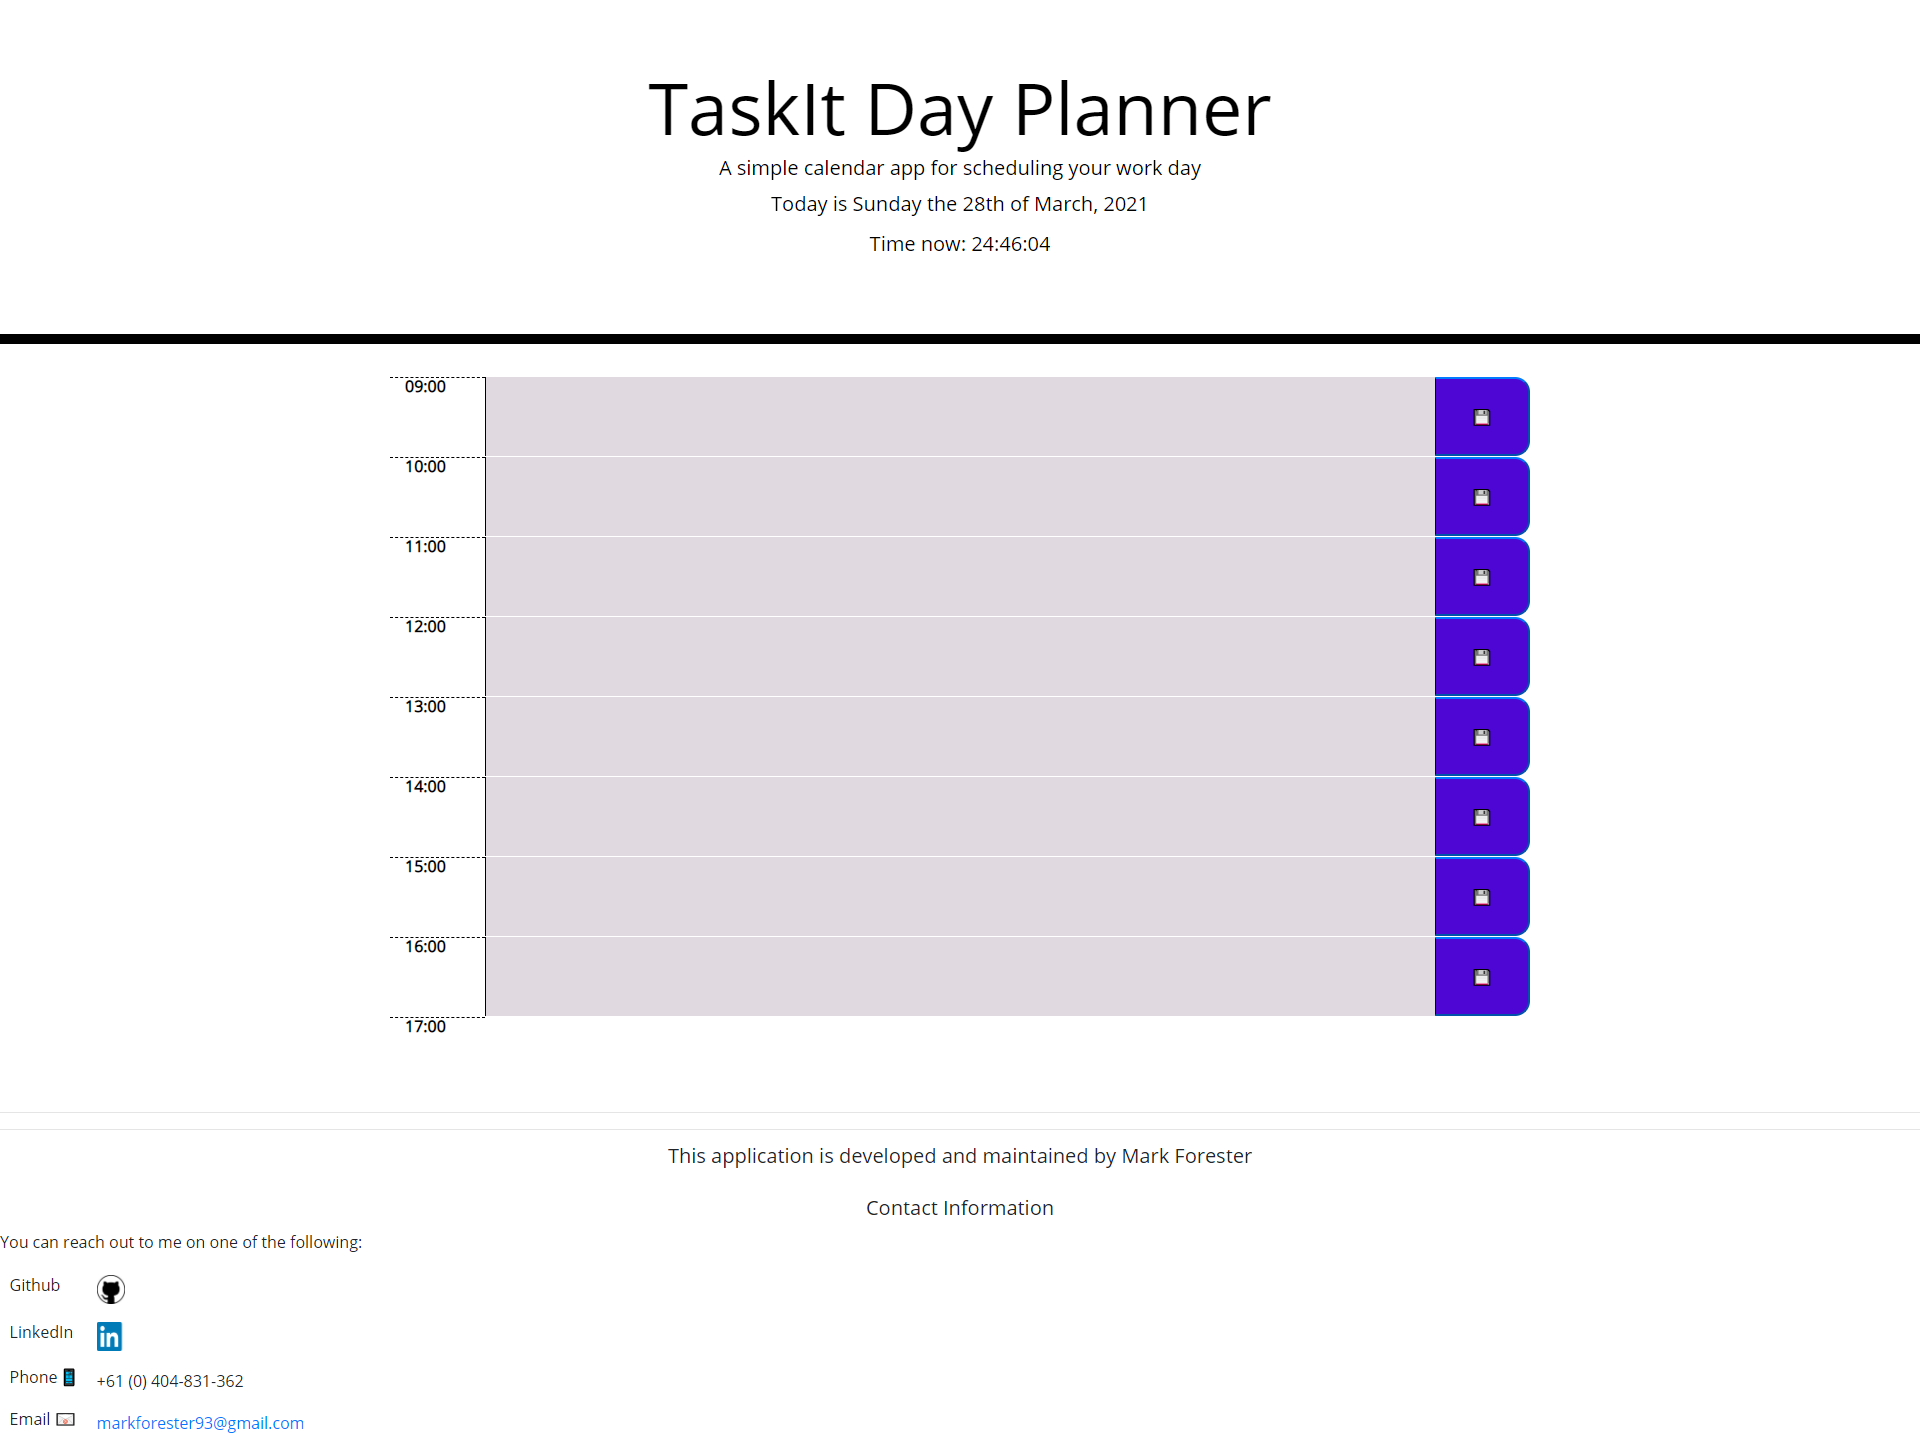
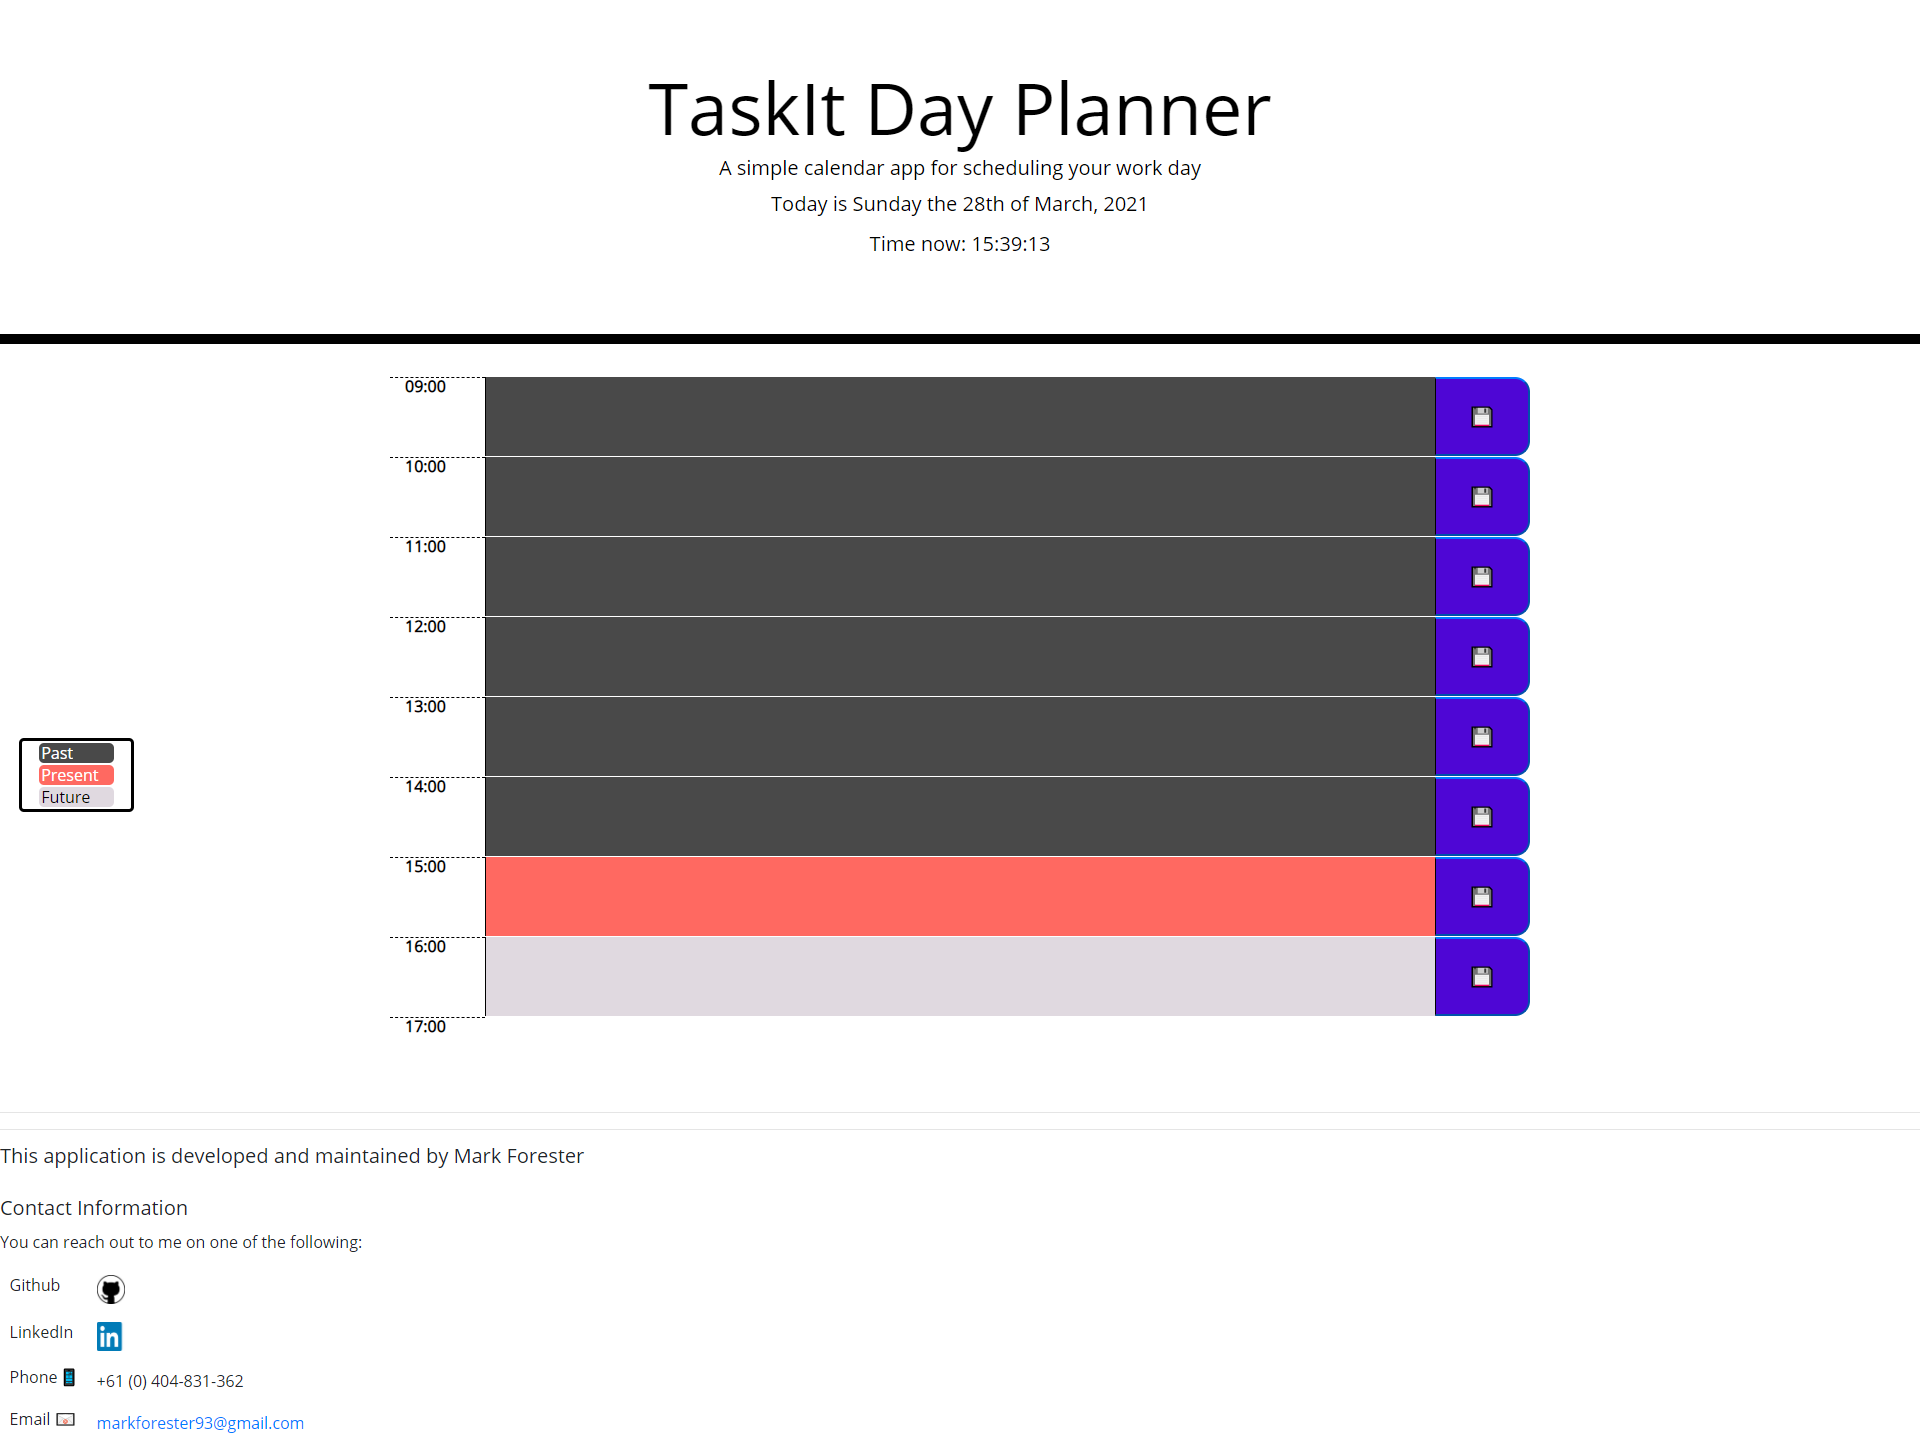
Third Commit

diff --git a/assets/scripts/script.js b/assets/scripts/script.js
@@ -1,22 +1,25 @@
-// display current time
-let timeText=$('#currentDay');
-timeText.html(moment().format('[Today is] dddd [the] Do [of] MMMM, YYYY')+'<br><br>Time now: '+moment().format('kk:mm:ss'));
-
-let timer=setInterval(() => {
-    // alert(time);
-    timeText.html(moment().format('[Today is] dddd [the] Do [of] MMMM, YYYY')+'<br><br>Time now: '+moment().format('kk:mm:ss'));
-}, 1000);
 
 //establish work hours 9-5;
 let timeBlocks=$('#time-blocks');
+let startTime=9;
+let endTime=17;
 
 
+// function to build task list
 function formulateBlocks(){
-for(let i=9;i<17;i++){
+for(let i=startTime;i<endTime;i++){
     let timeBlock=$('<article>').addClass('row');
-    let timeBlockDiv1= $('<div>').addClass('col-1 hour').text(moment(i,'h').format('kk:mm'));
-    let timeBlockDiv2=$('<textarea>').addClass('col-10 future');
-    let timeBlockDiv3=$('<button>').addClass('col-1 btn-primary saveBtn').text('💾').attr('id','time-'+moment(i,'h').format('kk'));
+    let timeBlockDiv1= $('<div>')
+        .addClass('col-1 hour')
+        .text(moment(i,'h')
+        .format('kk:mm'));
+    let timeBlockDiv2=$('<textarea>')
+        .addClass('col-10 future')
+        .attr('id','time-'+i);
+    let timeBlockDiv3=$('<button>')
+        .addClass('col-1 btn-primary saveBtn')
+        .text('💾')
+        .attr('id','save-'+i);
 
     timeBlock.append(timeBlockDiv1);
     timeBlock.append(timeBlockDiv2);
@@ -24,12 +27,44 @@ for(let i=9;i<17;i++){
     timeBlocks.append(timeBlock);
 }
 
+// add the end time of the day without the time block - assumed the person leaves at 5:00pm
+// there would be no reason to add a timeslot for 5pm
 let timeBlock=$('<article>').addClass('row');
-let timeBlockDiv1= $('<div>').addClass('col-1 hour').text(moment(17,'h').format('kk:mm'));
+let timeBlockDiv1= $('<div>').addClass('col-1 hour').text(moment(endTime,'h').format('kk:mm'));
 timeBlock.append(timeBlockDiv1);
 timeBlocks.append(timeBlock);
-
-
 }
 
+//style time blocks by the time of the day
+function styleByTime(){
+    for(let i=startTime;i<endTime;i++){
+        if(parseInt(moment().format('kk'))>i){
+            document.getElementById('time-'+i).className='col-10 past';
+            // document.getElementById('time-'+i).value='This is in the past';
+        }else if(parseInt(moment().format('kk'))==i){
+            document.getElementById('time-'+i).className='col-10 present';
+            // document.getElementById('time-'+i).value='This is now';
+        }else{
+            document.getElementById('time-'+i).className='col-10 future';
+            // document.getElementById('time-'+i).value='This is the future';
+        }
+    }
+}
+// build task list
 formulateBlocks();
+styleByTime();
+
+// display current time
+let timeText=$('#currentDay');
+timeText.html(moment().format('[Today is] dddd [the] Do [of] MMMM, YYYY')+'<br><br>Time now: '+moment().format('kk:mm:ss'));
+
+let currentHour=parseInt(moment().format('kk'));
+let timer=setInterval(() => {
+    // alert(time);
+    timeText.html(moment().format('[Today is] dddd [the] Do [of] MMMM, YYYY')+'<br><br>Time now: '+moment().format('kk:mm:ss'));
+
+    //the following block is to avoid running a for loop to change the styles of the time blocks every second. Only when the hour changes.
+    if(currentHour<parseInt(moment().format('kk'))){
+        styleByTime();
+    }
+}, 1000);

diff --git a/index.html b/index.html
@@ -31,14 +31,19 @@
     <section class="container" id='time-blocks'>
       <!-- Timeblocks go here -->
     </section>
-    <footer class='justify-content-center'>
+    <section class='container my-3' id='colour-legend'>
+      <p class='past'>Past</p>
+      <p class='present'>Present</p>
+      <p class='future'>Future</p>
+    </section>
+    <footer>
       <hr>
       <hr>
-      <p class="lead text-center">
+      <p class="lead">
       This application is developed and maintained by Mark Forester
       </p>
       <br>
-      <p class='lead text-center'>Contact Information<p>
+      <p class='lead'>Contact Information<p>
       <p class='contact-me'>You can reach out to me on one of the following:</p>
       <table class='contact'>
         <tr>

diff --git a/assets/styles/style.css b/assets/styles/style.css
@@ -44,7 +44,7 @@ textarea {
 }
 
 .past {
-  background-color: #d3d3d3;
+  background-color: #494949;
   color: white;
 }
 
@@ -64,6 +64,7 @@ textarea {
   border-bottom-right-radius: 15px;
   background-color: #4e06d5;
   color: white;
+  font-size: 125%;
 }
 
 .saveBtn i:hover {
@@ -80,4 +81,20 @@ textarea {
 .contact td {
   /* border: solid 3px darkgray; */
   padding: 0.5vw;
+}
+
+#colour-legend {
+  position: fixed;
+  left: 1%;
+  top: 50%;
+  background-color: rgb(255, 255, 255);
+  color: floralwhite;
+  width: 6vw;
+  border-radius: 5px;
+  border: solid 3px black;
+}
+#colour-legend * {
+  padding: 2px;
+  margin: 2px;
+  border-radius: 5px;
 }

diff --git a/README.md b/README.md
@@ -36,3 +36,9 @@ TaskIt is a user-friendly, low-resource interface that uses the local storage an
 • Added basic blocks for business hours.  
 • Added reset.css file.  
 • Added screenshot for the page.
+
+### Third Commit
+
+• Added time-dependent colour-coding function.
+• Added a page footer.
+• Added a colour legend.
